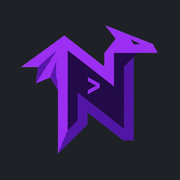
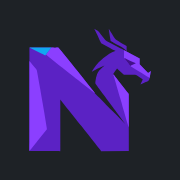
docs(site): the new Nish mark, its colours, and the hero as the landing title
The docs site takes the new logo.

- docs/site/mark.svg is the mark as a vector. The header logos (the mark
  beside "nish"), the favicons and the hero's compiler tile are drawn from
  it, and the site gains an SVG favicon.
- The theme's violets and cyan are the mark's (#8b3fff, #5b22c4, #42118a,
  #11a8f1). Text contrast is re-measured and still meets WCAG AA.
- On the landing page the hero's headline stands in for the "Introduction"
  title, which stays in the document for screen readers and the outline.

Refs: docs/README.md#the-sites-look

diff --git a/docs/site/theme.css b/docs/site/theme.css
@@ -4,13 +4,13 @@
   the page's entrance, blocks that rise as they scroll into view, the cards'
   pointer highlight and the landing page's hero (built by site.js).
 
-  Logo palette: charcoal #1e2126, violet #9c42e9, mid #792cb9,
-  deep #391072 / #33175d, darkest fill #211a30, tagline grey #b7b7c5.
+  Logo palette (docs/site/mark.svg): charcoal #1e2226, violet #8b3fff,
+  mid #5b22c4, deep #42118a, and the cyan fleck #11a8f1.
 
   Text colours meet WCAG AA (4.5:1) on the surfaces they sit on, in both
   modes, and on every stop of the page gradient: the tightest are the dark
   link (#b47cf0, 4.80:1) and the light faint text (#5f6370, 4.52:1) on the
-  gradient's brightest stop. A colour change re-measures them.
+  gradient's brightest stop, and white on the dark button (#8b3fff, 4.94:1). A colour change re-measures them.
 
   Scalar reads a theme as CSS custom properties under .light-mode and
   .dark-mode (the class on <body>), the same shape as its built-in presets.
@@ -26,10 +26,10 @@
 :root:root {
   --scalar-block-spacing: 18px;
   --scalar-heading-spacing: 56px;
-  --nish-violet: #9c42e9;
-  --nish-violet-mid: #792cb9;
+  --nish-violet: #8b3fff;
+  --nish-violet-mid: #5b22c4;
   --nish-pink: #e85fb4;
-  --nish-cyan: #5cc8f5;
+  --nish-cyan: #11a8f1;
   --nish-ease: cubic-bezier(0.22, 1, 0.36, 1);
 }
 
@@ -63,10 +63,10 @@
   --scalar-color-query: #007b80;
 
   --scalar-link-color: var(--nish-violet-mid);
-  --scalar-link-color-hover: #5a1f8f;
+  --scalar-link-color-hover: #42118a;
 
   --scalar-button-1: var(--nish-violet-mid);
-  --scalar-button-1-hover: #5a1f8f;
+  --scalar-button-1-hover: #42118a;
   --scalar-button-1-color: #ffffff;
 
   --scalar-tooltip-background: color-mix(in srgb, var(--scalar-background-1), transparent 10%);
@@ -105,7 +105,7 @@
   --scalar-link-color-hover: #d2b0f8;
 
   --scalar-button-1: var(--nish-violet);
-  --scalar-button-1-hover: #8a33d6;
+  --scalar-button-1-hover: #7a2ff0;
   --scalar-button-1-color: #ffffff;
 
   --scalar-tooltip-background: color-mix(in srgb, var(--scalar-background-1), #ffffff 10%);
@@ -399,6 +399,20 @@ table.t-editor__table tbody tr:hover {
 }
 .nish-hero:empty {
   display: none;
+}
+/* Once the hero is up its headline is the page's title, so the Markdown's
+   own "Introduction" leaves the screen. It stays in the document, clipped
+   rather than removed, for a screen reader and for the page outline. */
+.page-node:has(.nish-hero__inner) > .t-editor__heading[data-level="1"] {
+  position: absolute;
+  width: 1px;
+  height: 1px;
+  overflow: hidden;
+  clip-path: inset(50%);
+  white-space: nowrap;
+}
+.page-node:has(.nish-hero__inner) > .nish-hero {
+  margin-top: 0;
 }
 .nish-hero__inner {
   position: relative;
@@ -748,7 +762,10 @@ a.nish-hero__cta:hover {
 .nish-hero__core img {
   width: 52px;
   height: 52px;
+  box-sizing: border-box;
+  padding: 7px;
   border-radius: 14px;
+  background: var(--scalar-background-1);
   box-shadow: 0 0 0 1px color-mix(in srgb, var(--nish-violet), transparent 50%);
   animation: nish-hero-core var(--nish-cycle) var(--nish-ease) infinite;
 }

diff --git a/docs/site/site.js b/docs/site/site.js
@@ -155,7 +155,7 @@
             "div.nish-hero__core",
             {},
             el("span.nish-hero__ring"),
-            el("img", { src: "/apple-touch-icon.png", alt: "", width: "56", height: "56" })
+            el("img", { src: "/mark.svg", alt: "", width: "52", height: "52" })
           ),
           el(
             "div.nish-hero__targets",

diff --git a/docs/README.md b/docs/README.md
@@ -133,8 +133,13 @@ who write programs in Nish. A page there follows these rules:
 
 ## The site's look
 
-The site's styling and motion are three files, all served from
-[`docs/site/`](site/) (`assetsDir` in `scalar.config.json`):
+The site's logo, styling and motion all live in [`docs/site/`](site/)
+(`assetsDir` in `scalar.config.json`):
+
+- [`mark.svg`](site/mark.svg) is the logo, and the source of every other
+  image there: `logo-dark.png` and `logo-light.png` (the mark beside "nish",
+  for the header) and the favicons are renders of it, so a new mark
+  re-renders them all. The theme's violets and cyan are its colours.
 
 - [`theme.css`](site/theme.css) is the theme: the colours of both modes, the
   gradient behind every page, and every animation — a page's entrance, blocks
